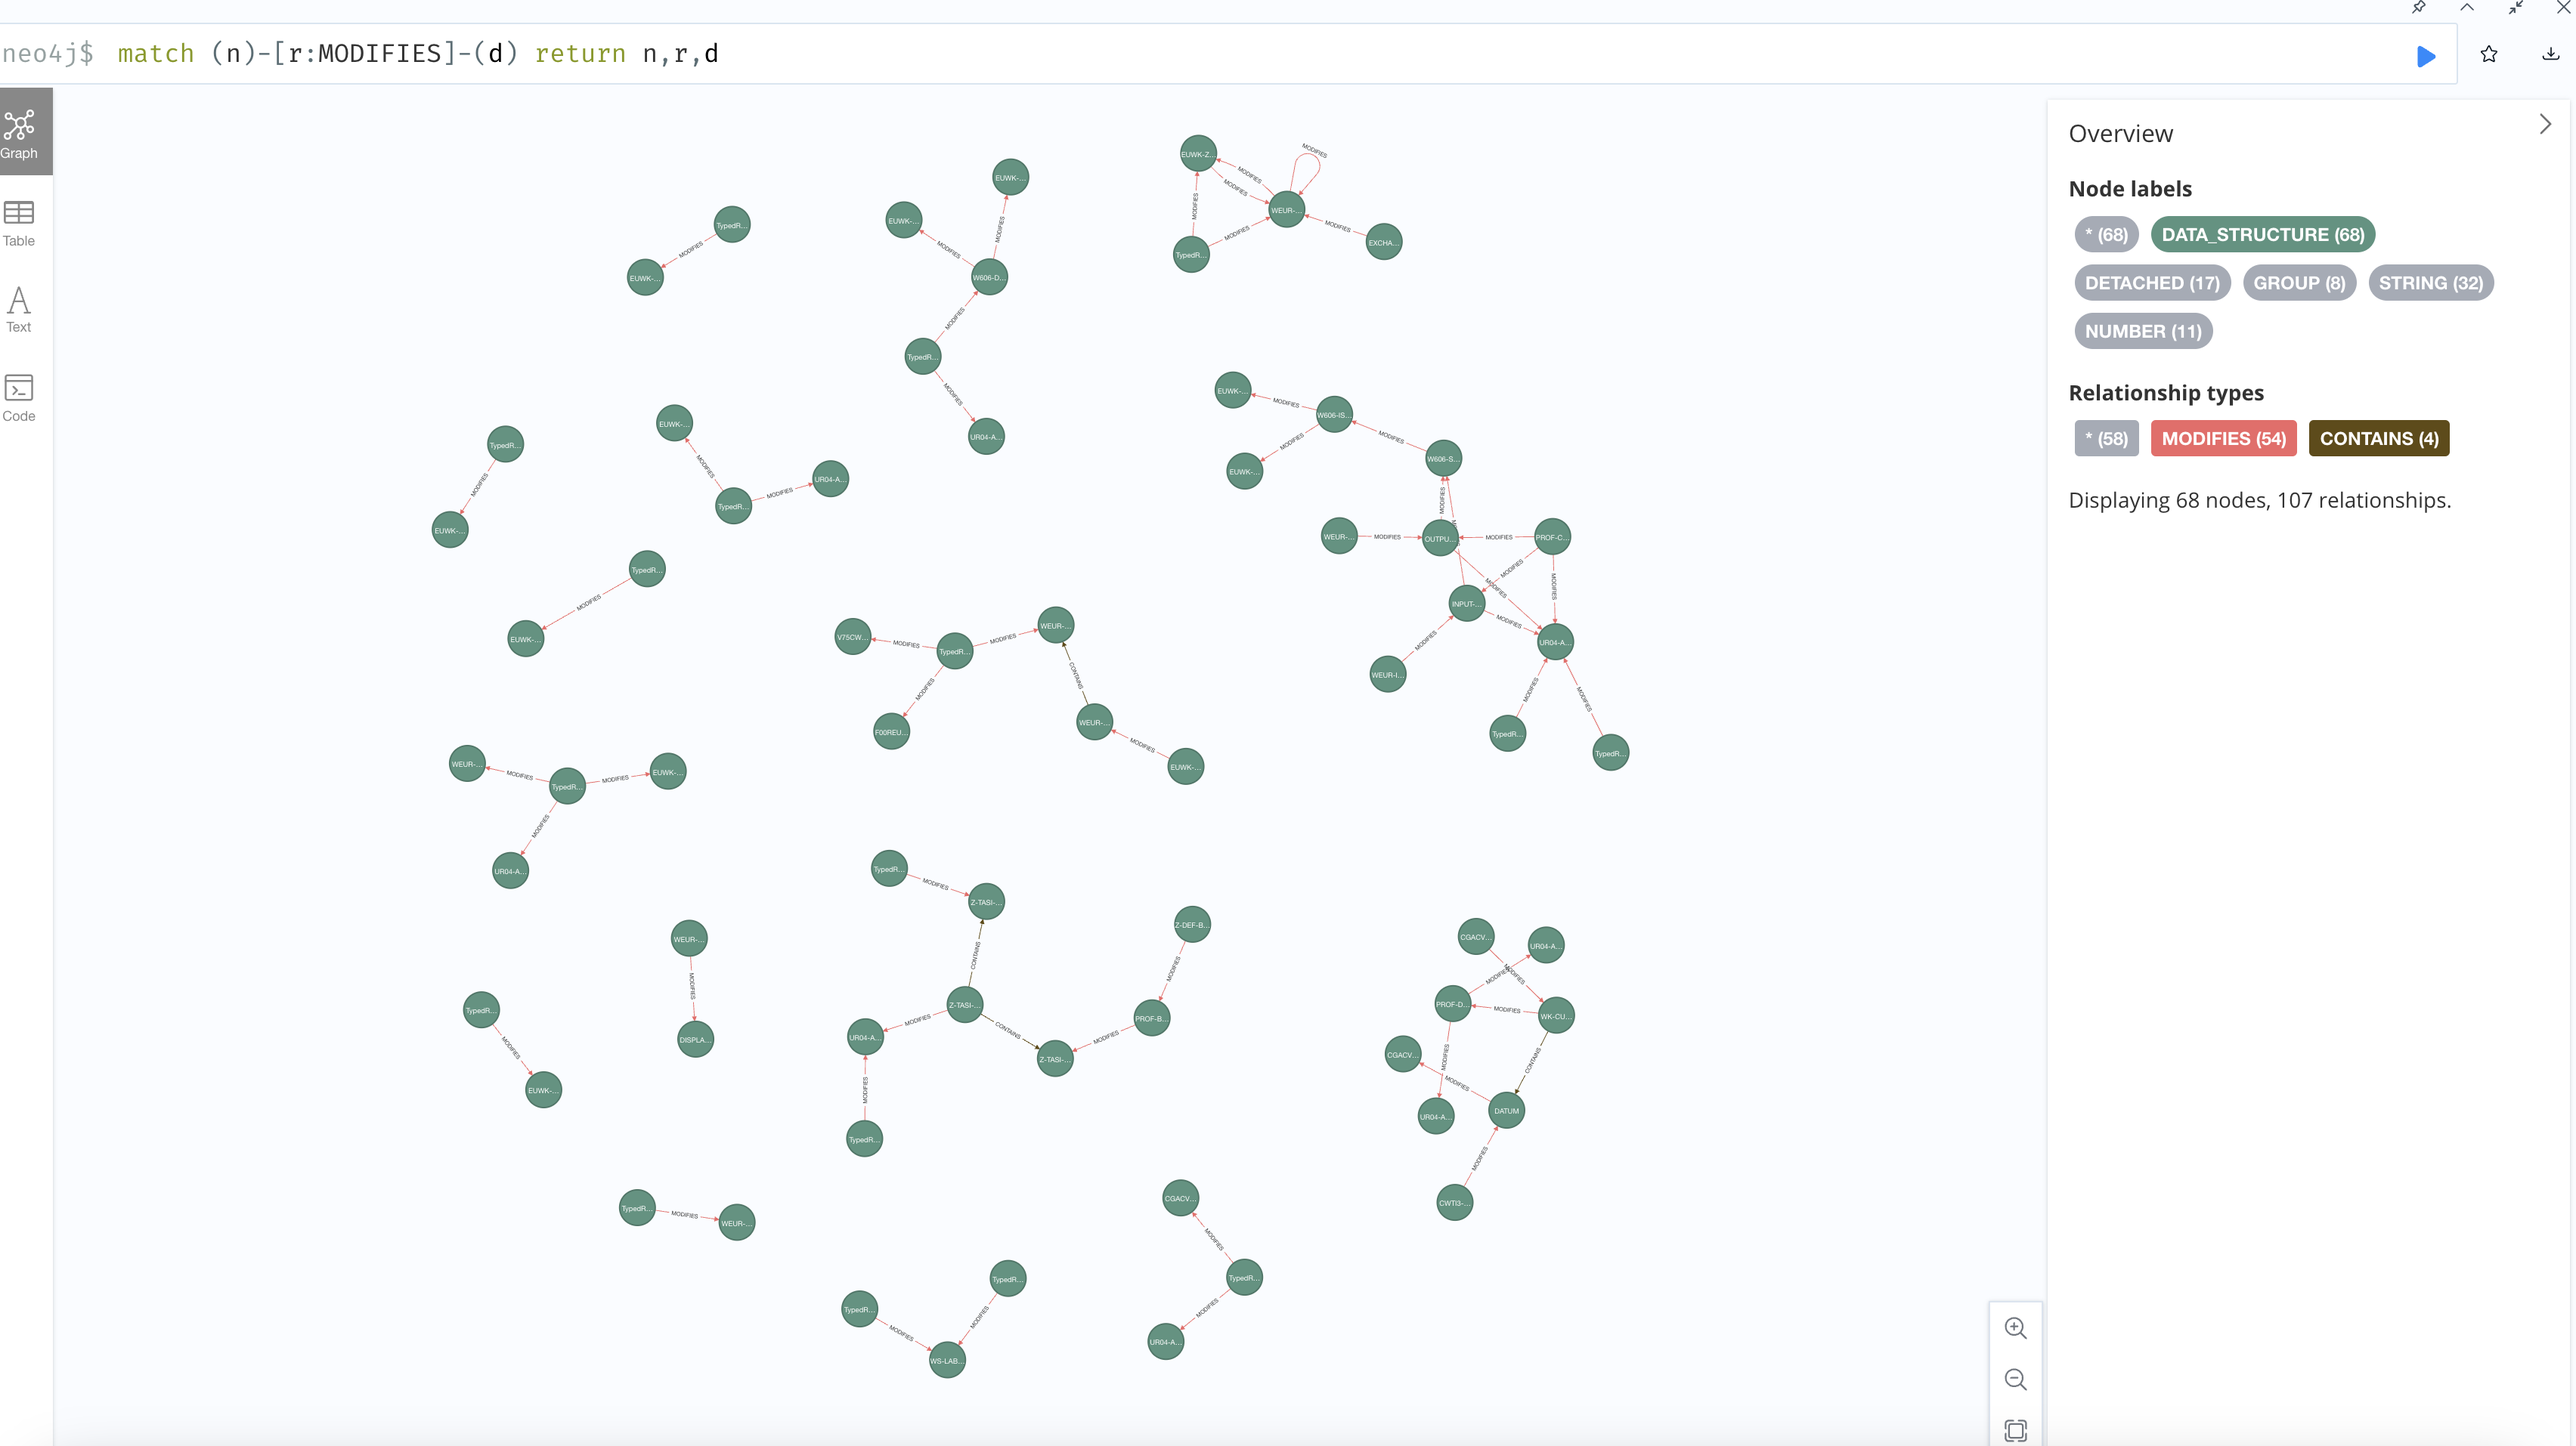
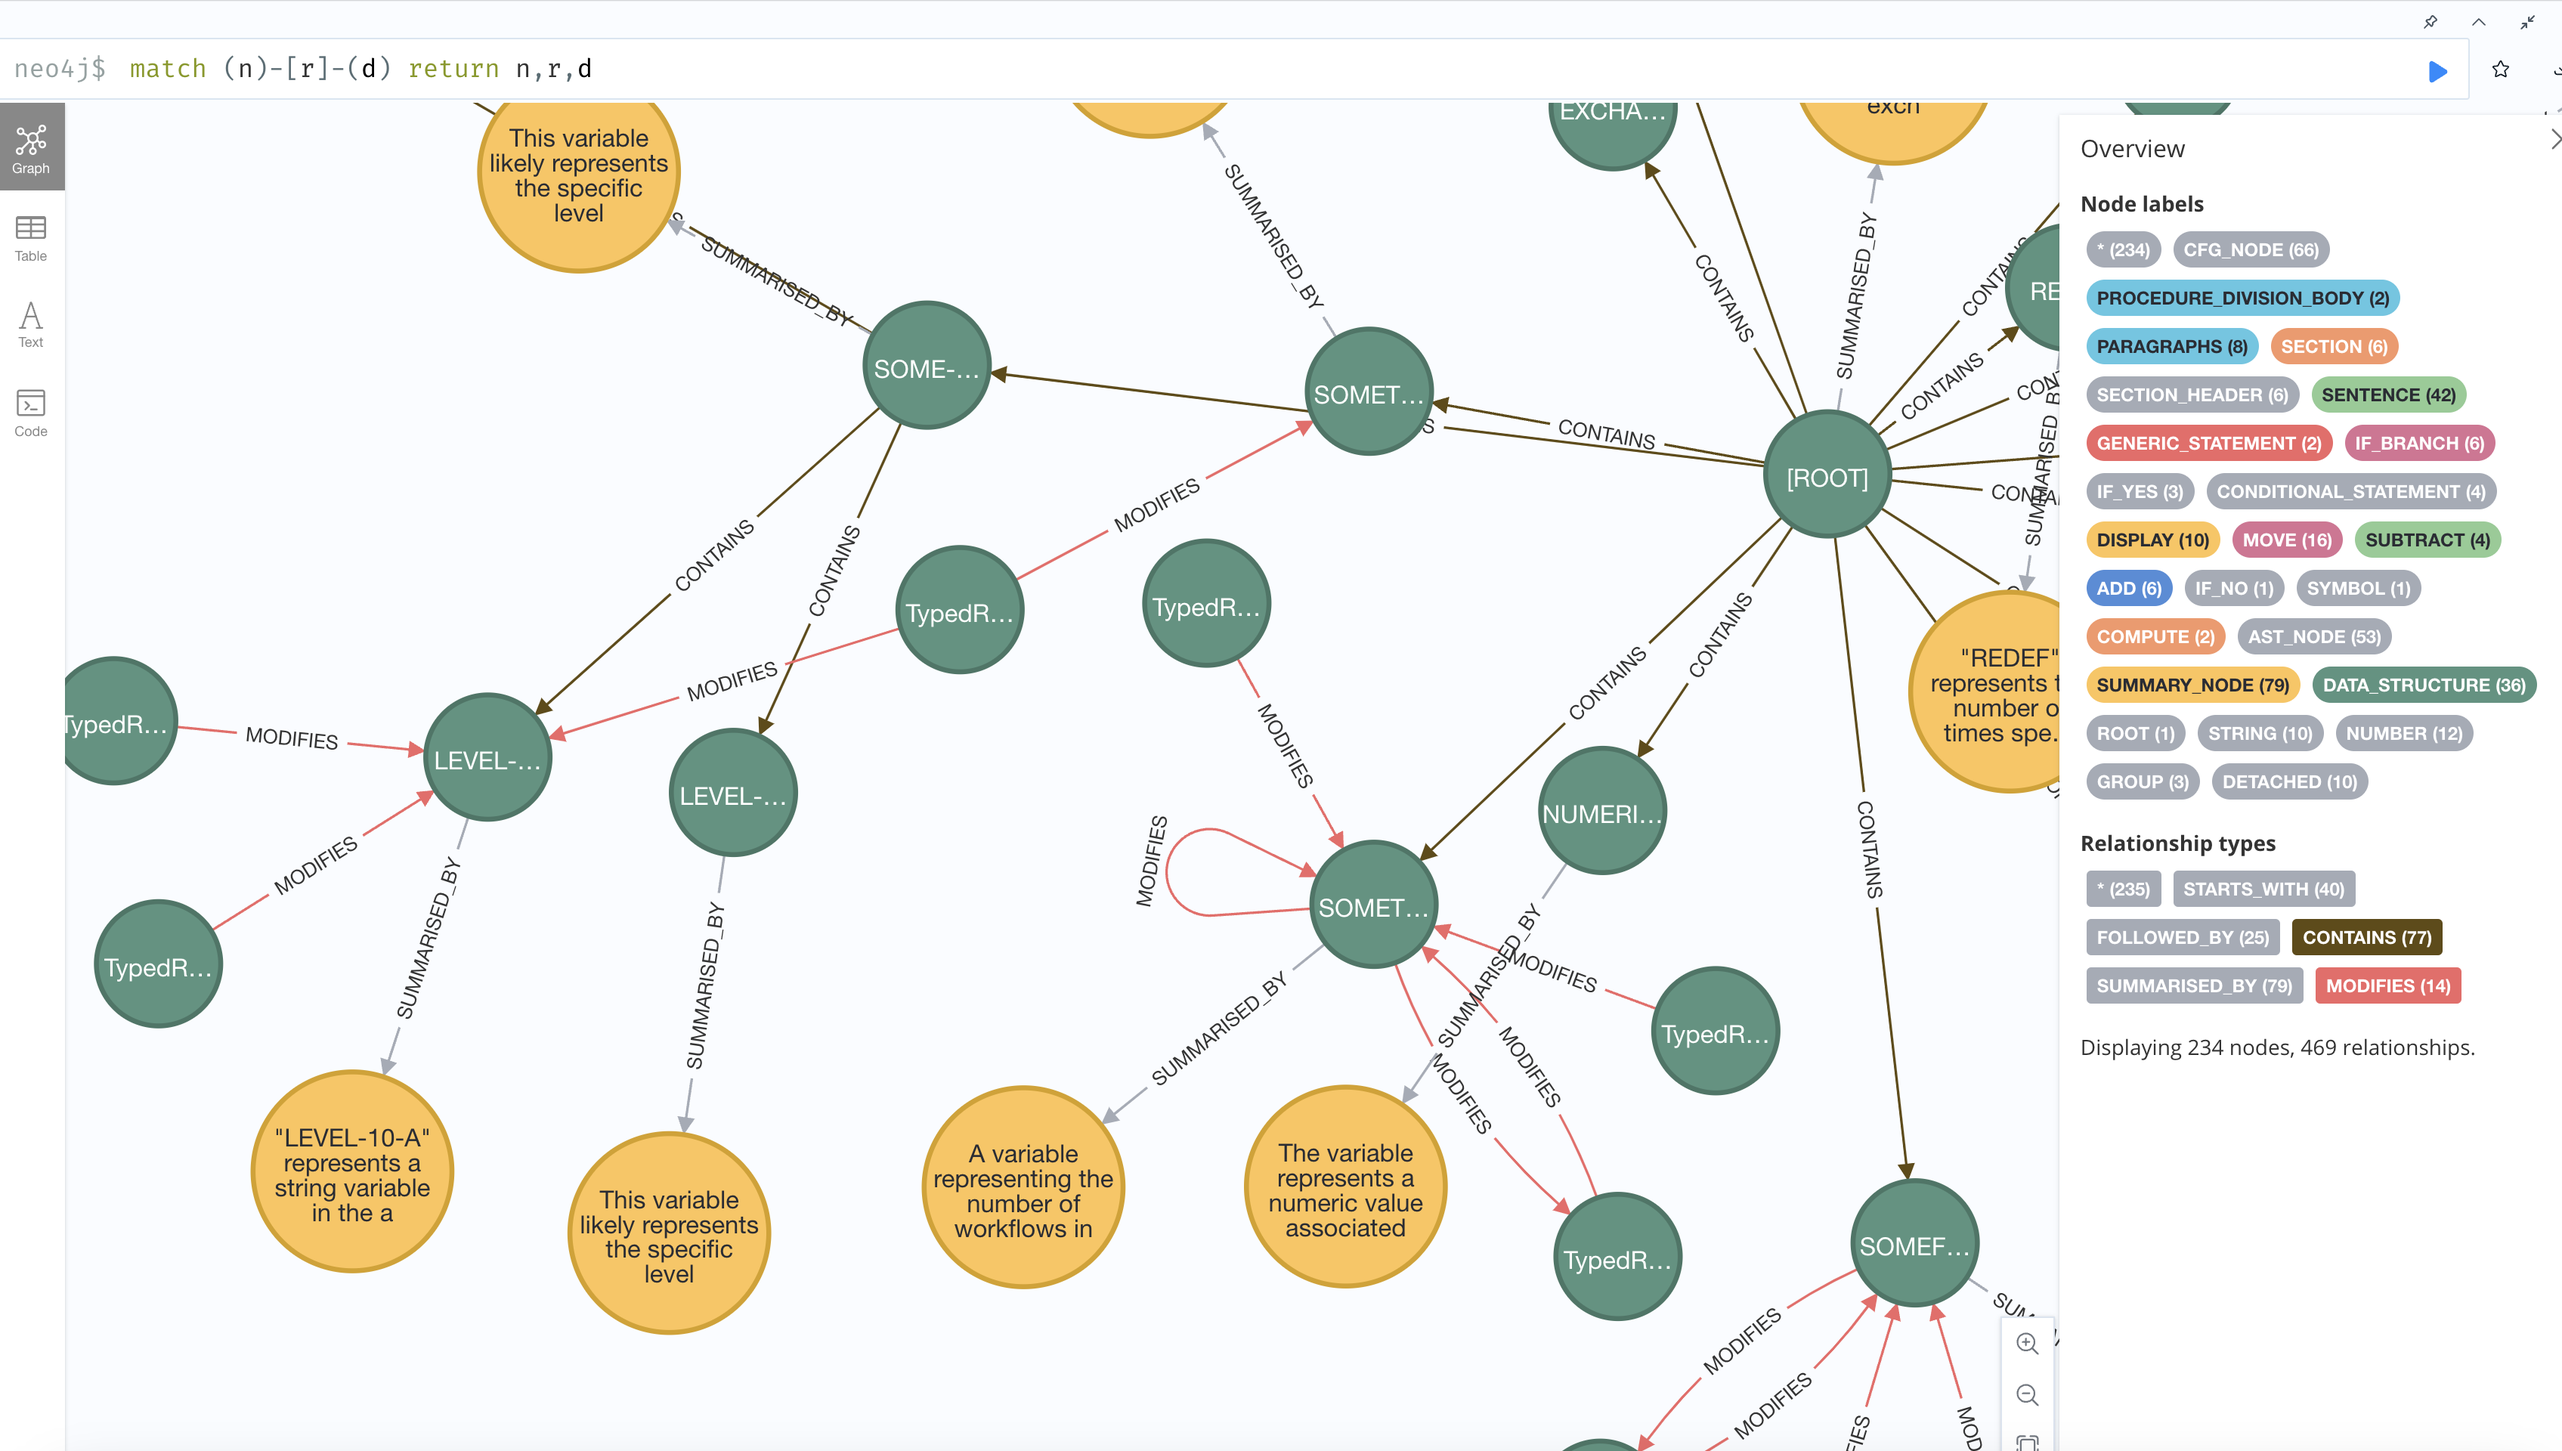
Better screenshot of variable dependencies

diff --git a/README.md b/README.md
@@ -21,7 +21,7 @@ This is an evolving toolkit of capabilities helpful for reverse engineering lega
 
 Some reverse engineering are listed below. Descriptions of the capabilities which support these use cases are provided in later sections.
 
-- The parse Tree can be fed to a Graph DB for consumption by an LLM through agents to answer questions about the codebase
+- The Parse Tree can be fed to a Graph DB for consumption by an LLM through agents to answer questions about the codebase
 - Static analysis of the parse tree to reveal important operations (database operations, variable dependencies)
 - The interpreter can be used to trace flows to experiment with different conditions
 - Trace variable impact analysis (Which variables are affected by which in a particular run)
@@ -70,7 +70,7 @@ The following diagram shows the AST, the Control Flow Graph, and the data struct
 
 This capability connects records which modify other records, with a ```MODIFIES``` relation. The dependencies traced include variables which are used in expressions, as well as free-standing literals. Below is an example of a set of dependencies from a program with a fairly large data model.
 
-![ast-cfg-structs-graph](documentation/record-dependencies-graph.png)
+![ast-cfg-structs-graph](documentation/record-dependencies-graph2.png)
 
 ## SMOJOL (SMol Java-powered CobOL) Interpreter
 
